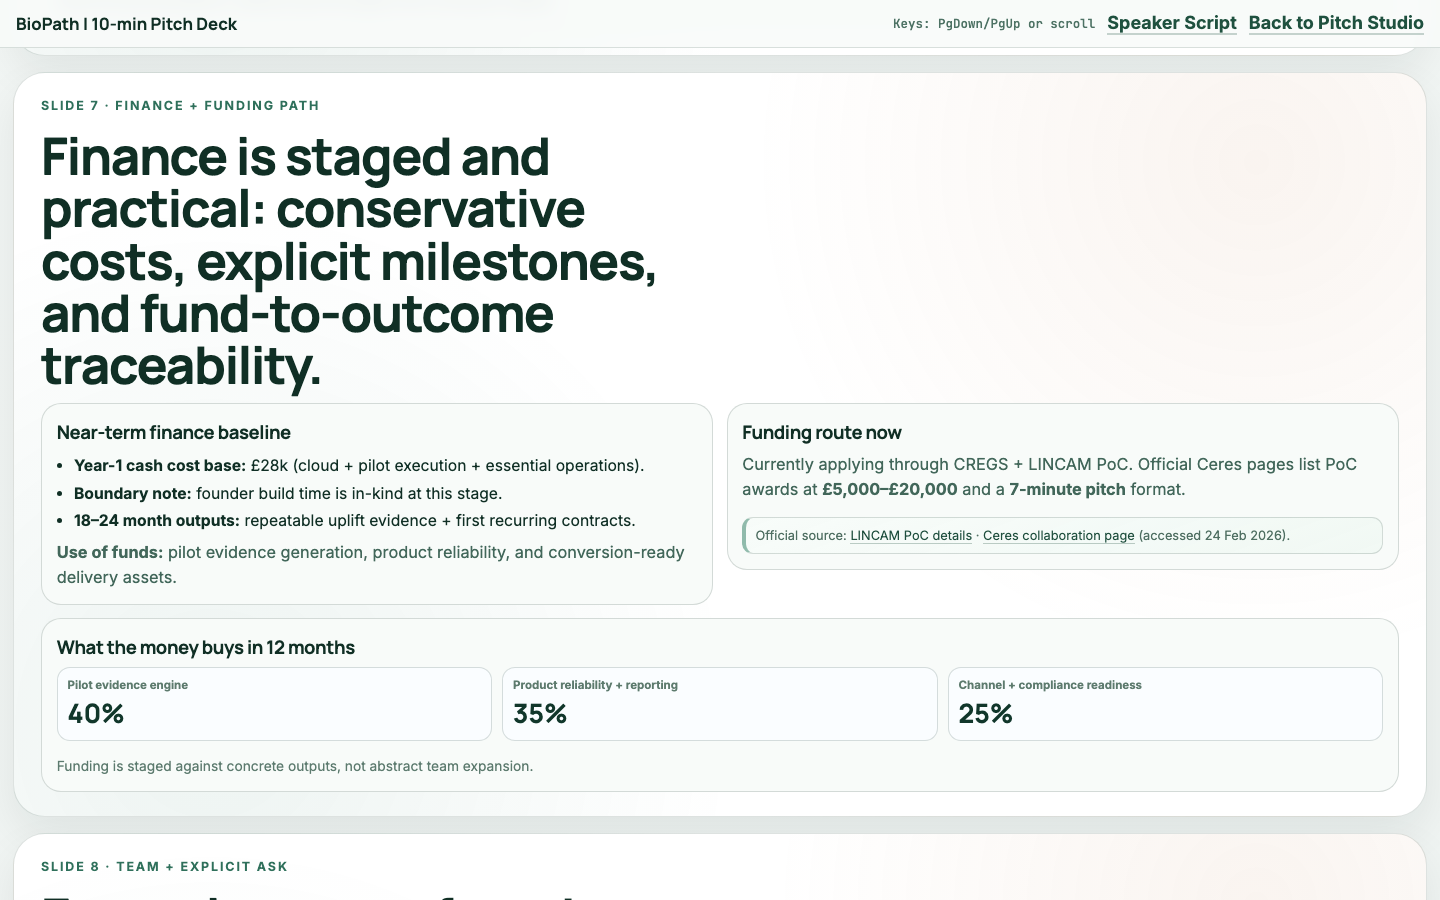
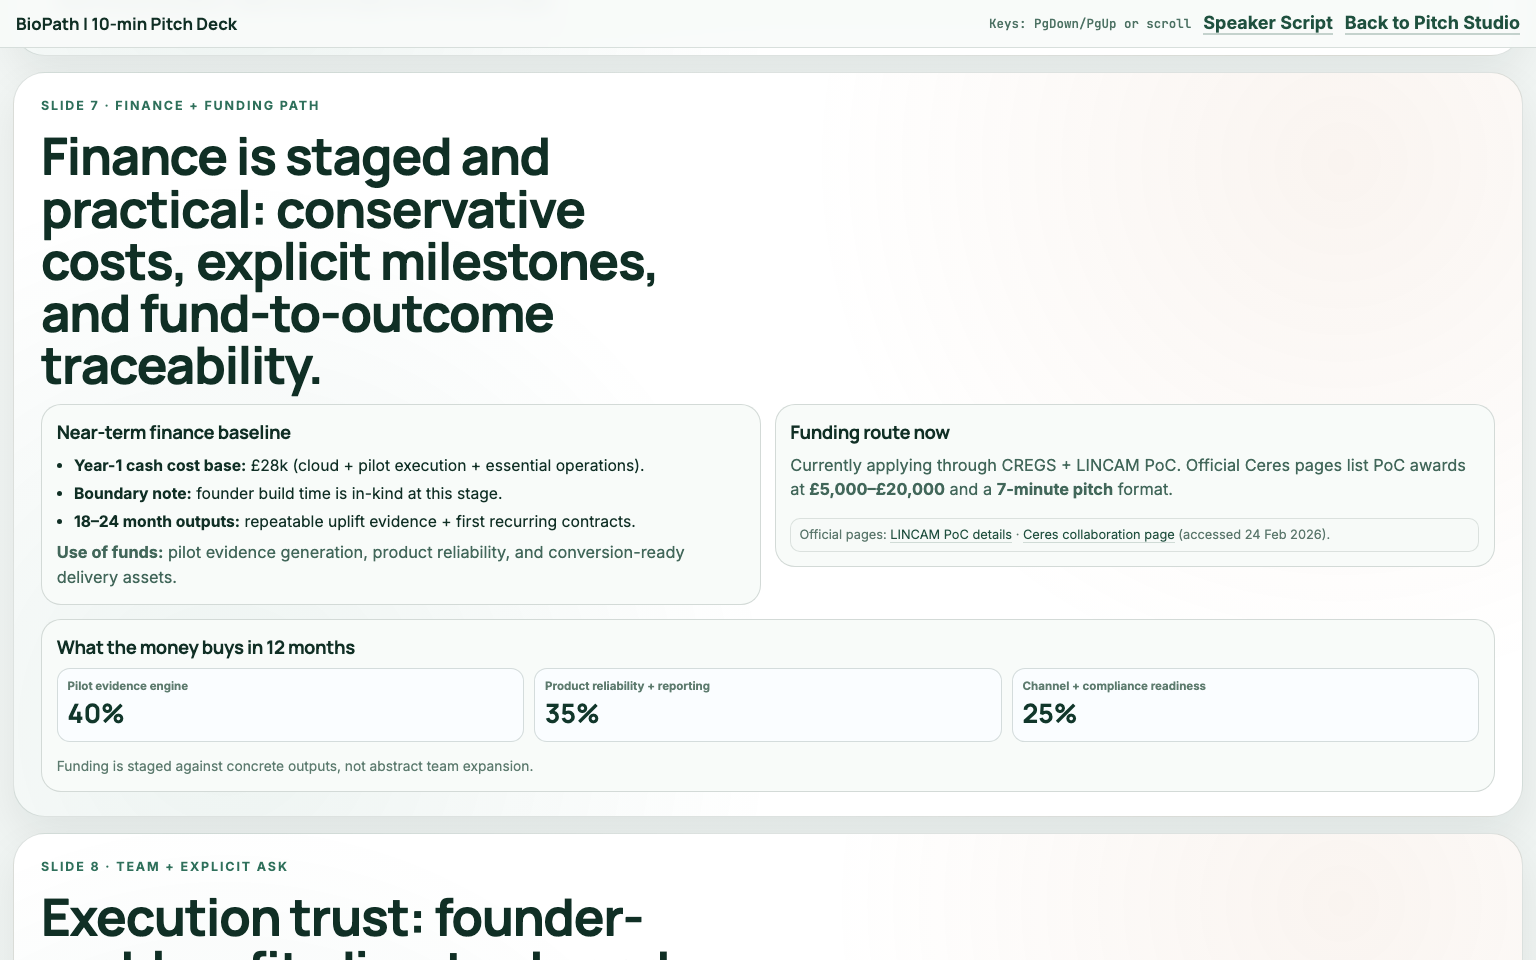
Polish funding source styling and refresh proof screenshots

diff --git a/site/pitch-deck.html b/site/pitch-deck.html
@@ -229,12 +229,17 @@
 
       .source-line.source-line-funding {
         margin-top: 0.5rem;
-        border: 1px solid rgba(16, 47, 37, 0.16);
-        border-left: 4px solid rgba(20, 107, 78, 0.44);
-        border-radius: 11px;
-        background: linear-gradient(160deg, rgba(247, 252, 249, 0.95), rgba(241, 248, 244, 0.9));
-        padding: 0.48rem 0.58rem;
-        color: #4f6f62;
+        border: 1px solid rgba(16, 47, 37, 0.12);
+        border-radius: 10px;
+        background: rgba(246, 250, 248, 0.8);
+        padding: 0.4rem 0.52rem;
+        color: #5c786d;
+      }
+
+      .source-line.source-line-funding a,
+      .source-line.source-line-funding a:visited {
+        color: #1f4f3e;
+        border-bottom-color: rgba(31, 79, 62, 0.18);
       }
 
       .footer {
@@ -494,7 +499,7 @@
           <article class="card">
             <h3>Funding route now</h3>
             <p>Currently applying through CREGS + LINCAM PoC. Official Ceres pages list PoC awards at <strong>£5,000–£20,000</strong> and a <strong>7-minute pitch</strong> format.</p>
-            <p class="source-line source-line-funding">Official source: <a href="https://www.ceresagritech.org/lincam-linc-camb/contact/" target="_blank" rel="noreferrer">LINCAM PoC details</a> · <a href="https://www.ceresagritech.org/lincam-linc-camb/" target="_blank" rel="noreferrer">Ceres collaboration page</a> (accessed 24 Feb 2026).</p>
+            <p class="source-line source-line-funding">Official pages: <a href="https://www.ceresagritech.org/lincam-linc-camb/contact/" target="_blank" rel="noreferrer">LINCAM PoC details</a> · <a href="https://www.ceresagritech.org/lincam-linc-camb/" target="_blank" rel="noreferrer">Ceres collaboration page</a> (accessed 24 Feb 2026).</p>
           </article>
         </div>
         <article class="card">

diff --git a/site/finance-pricing.html b/site/finance-pricing.html
@@ -193,12 +193,17 @@
       }
 
       .source.funding-source {
-        border: 1px solid rgba(17, 49, 39, 0.16);
-        border-left: 4px solid rgba(20, 107, 78, 0.45);
-        border-radius: 11px;
-        background: linear-gradient(160deg, rgba(247, 252, 249, 0.95), rgba(240, 248, 244, 0.9));
-        padding: 0.52rem 0.62rem;
-        color: #4f6f62;
+        border: 1px solid rgba(17, 49, 39, 0.12);
+        border-radius: 10px;
+        background: rgba(246, 250, 248, 0.8);
+        padding: 0.42rem 0.54rem;
+        color: #5c786d;
+      }
+
+      .source.funding-source a,
+      .source.funding-source a:visited {
+        color: #1f4f3e;
+        border-bottom-color: rgba(31, 79, 62, 0.18);
       }
 
       .footer {
